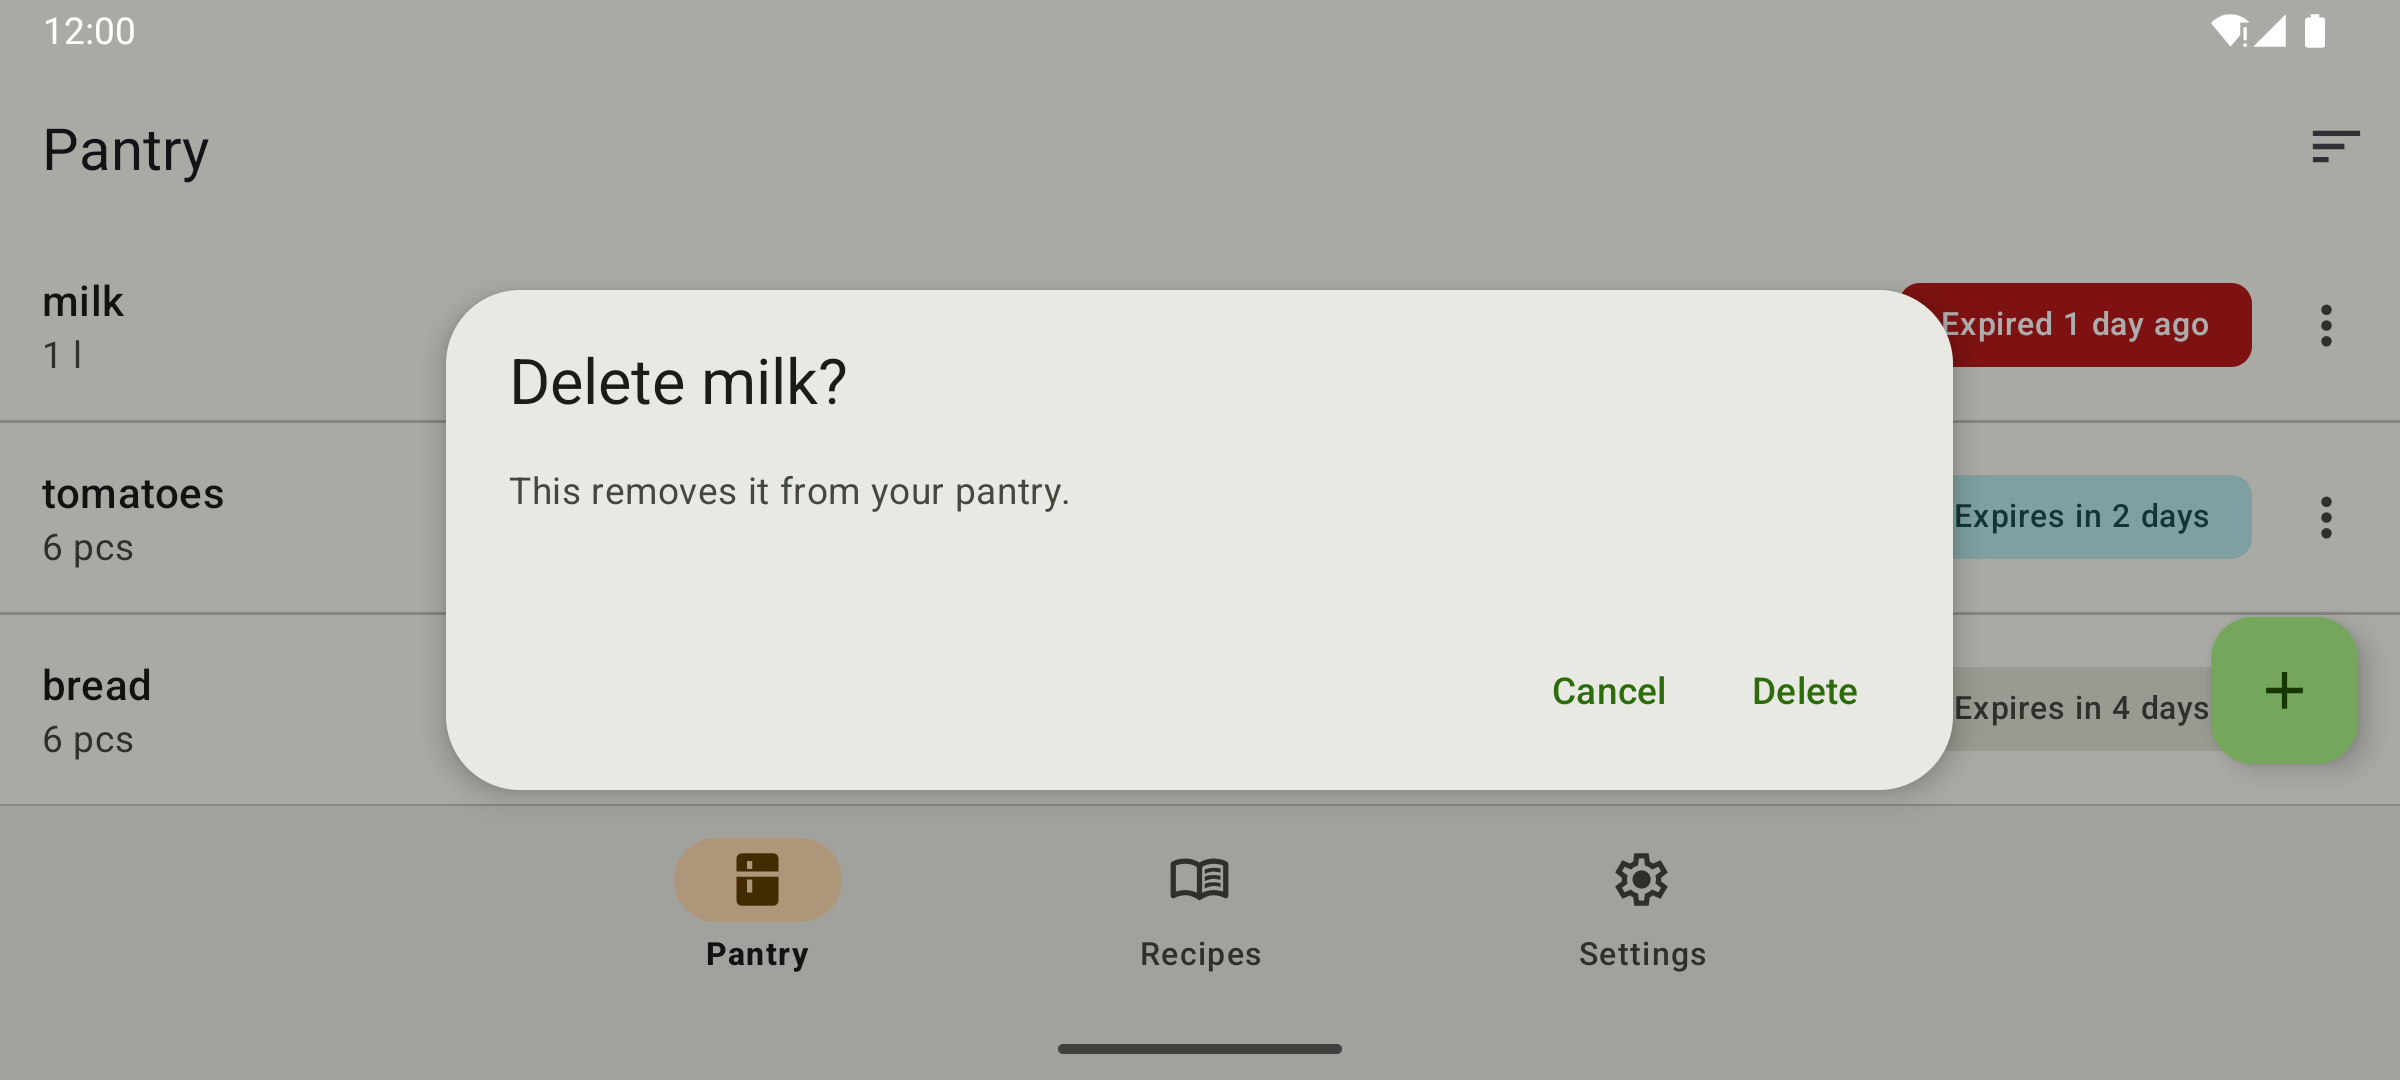
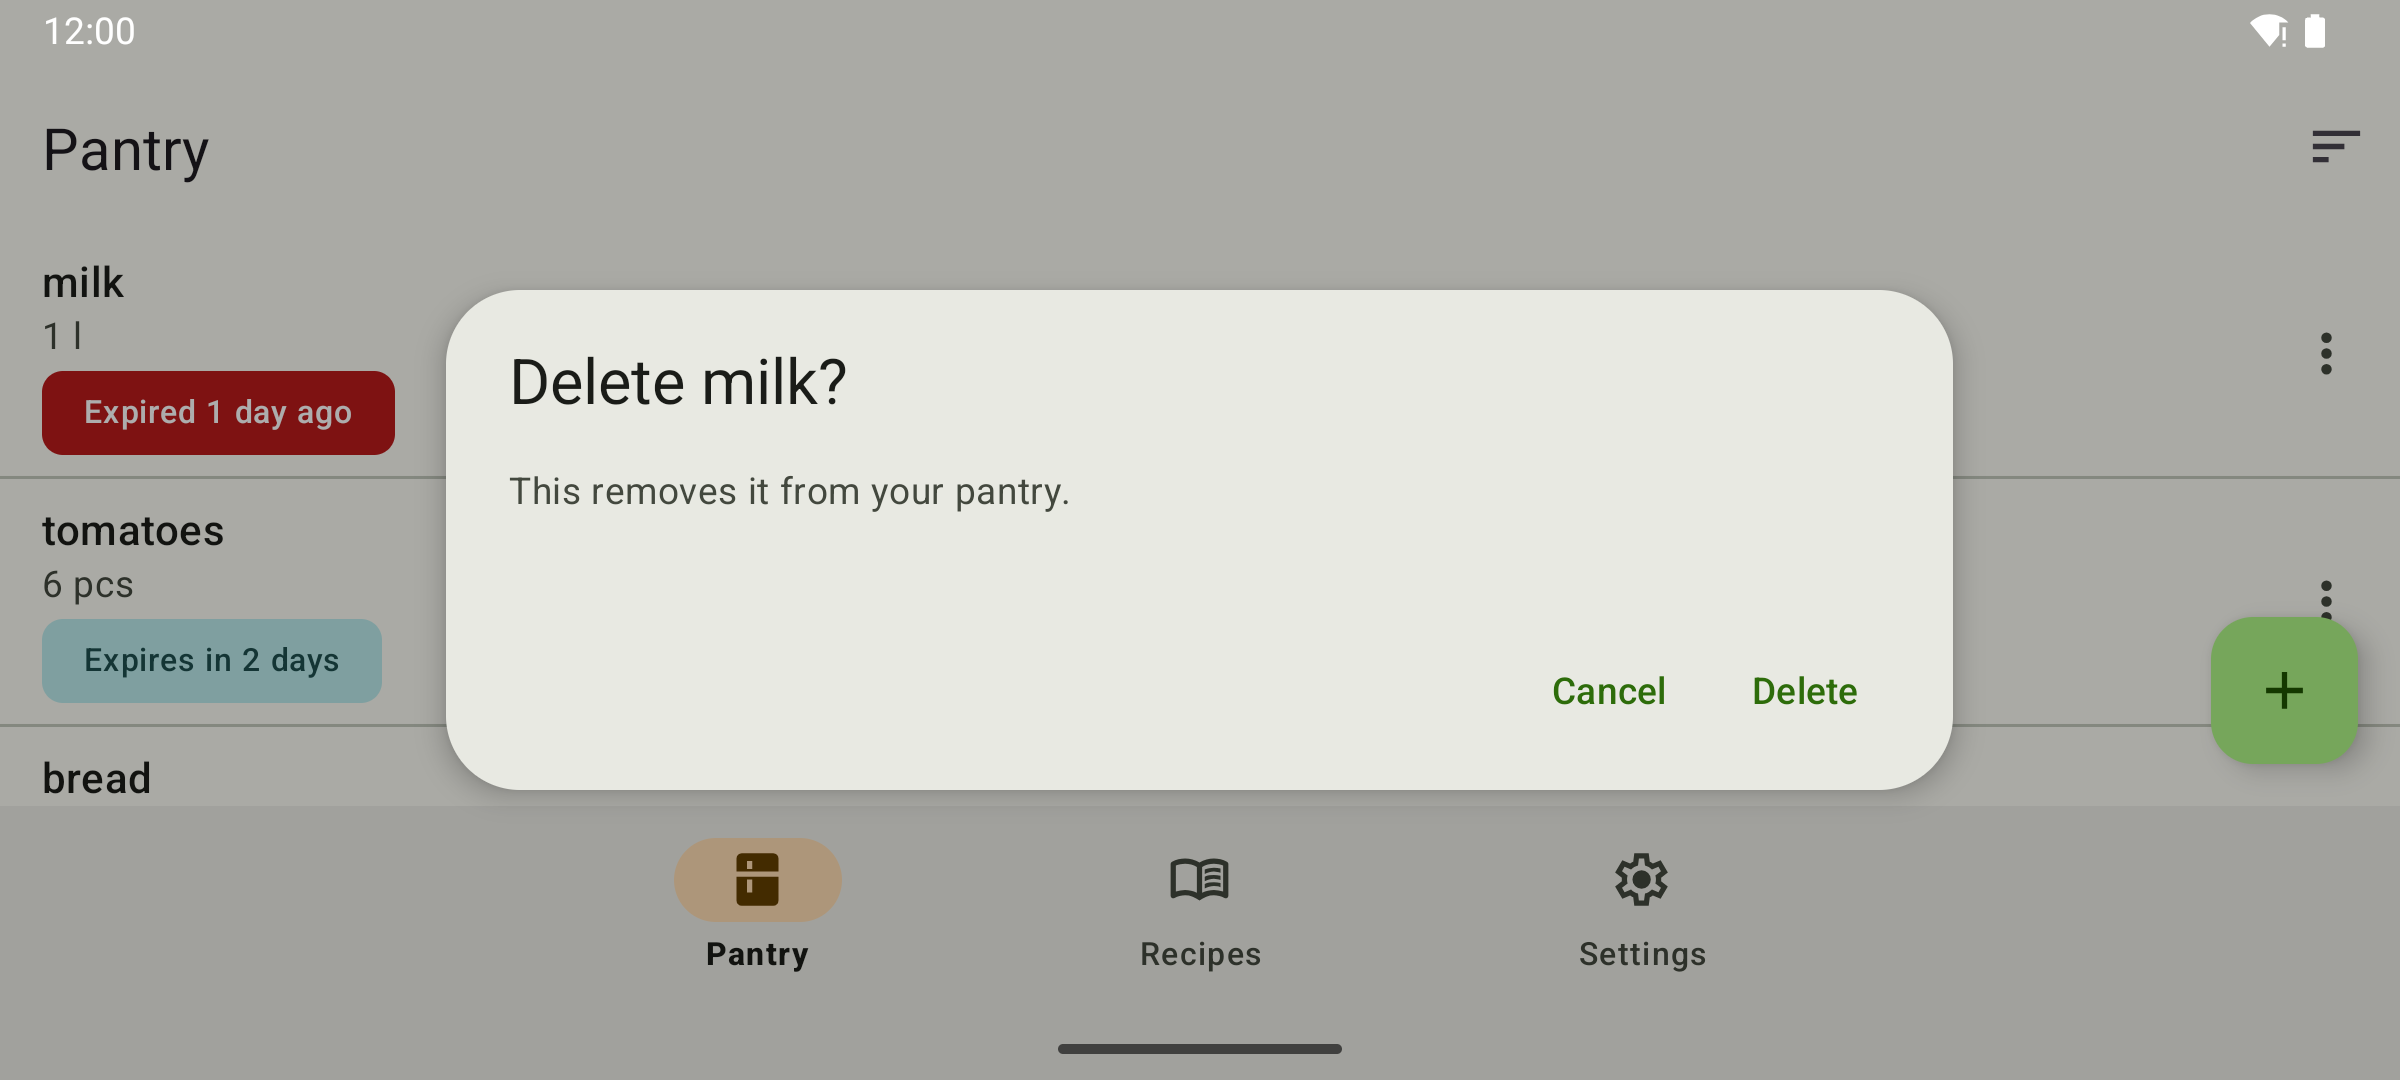
Issue 30: add the light, dark, font-scale and rotation screenshots of every screen and state, and UX_CHECKLIST.md ticking each check with its file

diff --git a/docs/REPORT/UX_CHECKLIST.md b/docs/REPORT/UX_CHECKLIST.md
@@ -1,0 +1,92 @@
+# UX checklist (Issue 30)
+
+One pass over every screen and state of the app with one checklist, before the report's screenshots
+are taken (Issue 33 chooses and captions its set from these). Each cell names the screenshot under
+[`screenshots/`](screenshots/) that shows the check, or the test that makes it. Taken on the API 35
+emulator (`spm_api35`, 1080 x 2400, demo mode) from the debug build, on 2026-10-04.
+
+## The checks
+
+| Check | How it was made |
+|---|---|
+| **Consistency** | `grep -rn 'android:textSize\|android:padding="[0-9]\|android:layout_margin="[0-9]\|#[0-9A-Fa-f]\{6\}' app/src/main/res/layout` prints nothing; `LayoutStyleConventionsTest` fails on a raw hex colour or a `textSize` in any layout. Every spacing is a `@dimen`, every text a `TextAppearance.Spm.*`, every colour a theme role. Toolbar titles come from resources (`Tab.titleRes()`, the two Activities' manifest labels and `title_edit_ingredient`); both Activities have the up arrow through `parentActivityName` and `onSupportNavigateUp`. Loading, empty and error share `view_state_message.xml`, filled by `ui/StateMessage`. |
+| **Dark** | Every screen and state screenshotted in the dark theme. No fixed `@color/white` or `@android:color/black` in a layout; badges, chips and cards take colour roles, so each pair stays legible. |
+| **Labels** | Lint's `ContentDescription` is an error (`app/build.gradle`), shown failing on a scratch `ImageView` and reverted. Every `ImageView`, `ImageButton` and FAB has a description from `strings.xml` or `importantForAccessibility="no"`; each pantry row has one spoken description ("tomato, 4 pieces, Expires in 3 days"). `AccessibilityChecksTest` runs the Accessibility Test Framework on every screen below. |
+| **Targets** | `@dimen/touch_target_min` (48 dp) on every `ImageButton` (`LayoutStyleConventionsTest`) and on the state layout's button; the framework's `TouchTargetSizeCheck` runs in `AccessibilityChecksTest`. |
+| **Font 2.0** | `adb shell settings put system font_scale 2.0`, every screen opened; 1.3 checked on the pantry and the form too. Reset to 1.0 afterwards. |
+| **Rotation** | Rotated with state on screen; the Activity is re-created (`adb logcat -s Lifecycle`: `onDestroy (configuration change)`, `onCreate (restored)`). |
+| **TalkBack** | The pantry list and the form, see *TalkBack* below. |
+| **No string in Java** | `grep -rn 'setText("\|setTitle("\|setError("\|makeText(.*"' app/src/main/java` prints nothing; `HardcodedText` and `SetTextI18n` are Lint errors. |
+
+## Every screen and state
+
+| Screen or state | Consistency | Dark | Labels | Targets | Font 2.0 | Rotation | TalkBack | No string in Java |
+|---|---|---|---|---|---|---|---|---|
+| Pantry list | ✅ `33_ux_pantry_list_light.png` | ✅ `33_ux_pantry_list_dark.png` | ✅ `AccessibilityChecksTest.thePantryList_theSortMenu_andTheDeleteDialog` | ✅ same test; overflow 48 dp | ✅ `33_ux_pantry_list_fontscale2.png` | ✅ `33_ux_pantry_list_land.png` | ✅ `33_ux_talkback_pantry.png` | ✅ |
+| Pantry empty | ✅ `33_ux_pantry_empty_light.png` | ✅ `33_ux_pantry_empty_dark.png` | ✅ `AccessibilityChecksTest.theEmptyPantry`; illustration decorative | ✅ button 48 dp | ✅ `33_ux_pantry_empty_fontscale2.png` | ✅ `33_ux_pantry_empty_land.png` | — | ✅ |
+| Delete dialog | ✅ `33_ux_delete_dialog_light.png` | ✅ `33_ux_delete_dialog_dark.png` | ✅ `AccessibilityChecksTest.thePantryList_theSortMenu_andTheDeleteDialog` | ✅ Material dialog buttons | ✅ `33_ux_delete_dialog_fontscale2.png` | ✅ `33_ux_delete_dialog_rotated_land.png` (a `DialogFragment` now: still open) | — | ✅ |
+| Undo Snackbar | ✅ `33_ux_undo_snackbar_light.png` | ✅ `33_ux_undo_snackbar_dark.png` | ✅ action labelled "Undo" | ✅ Material action | ✅ `33_ux_undo_snackbar_fontscale2.png` | ⚠ finding 2 below | — | ✅ |
+| Add form | ✅ `33_ux_add_form_light.png` | ✅ `33_ux_add_form_dark.png` | ✅ `AccessibilityChecksTest.theAddForm_withEveryErrorShowing`; every field labelled by its hint | ✅ end icons 48 dp | ✅ `33_ux_add_form_fontscale2.png` | ✅ `33_ux_add_form_rotated_land.png` (name, quantity, unit and date kept) | ✅ `33_ux_talkback_form.png` (the same form, in edit mode) | ✅ |
+| Add form, errors | ✅ `33_ux_add_form_errors_light.png` | ✅ `33_ux_add_form_errors_dark.png` (errors kept through the theme's re-creation) | ✅ same test; error icons labelled "Error" | ✅ | ✅ `33_ux_add_form_errors_fontscale2.png`, `33_ux_add_form_errors_fontscale13.png` | ✅ errors kept, as the dark shot shows | ✅ errors in the tree, see *TalkBack* | ✅ |
+| Edit form | ✅ `33_ux_edit_form_light.png` | ✅ `33_ux_edit_form_dark.png` | ✅ "Clear expiry date", "Choose expiry date" | ✅ | ✅ `33_ux_edit_form_fontscale2.png` | ✅ same layout and state as the add form | ✅ `33_ux_talkback_form.png` | ✅ |
+| Recipes, suggestions and Almost there | ✅ `33_ux_recipes_light.png` | ✅ `33_ux_recipes_dark.png` | ✅ `AccessibilityChecksTest.theRecipesTab_withAlmostThere_thenTheSettingsTab` | ✅ whole rows and cards | ✅ `33_ux_recipes_fontscale2.png` | ✅ `33_ux_recipes_scrolled_land.png`, `33_ux_recipes_scrolled_land_recreated.png` (scrolled to Garlic bread, still there after re-creation) | — | ✅ |
+| Recipes, zero match | ✅ `33_ux_recipes_no_match_light.png` | ✅ `33_ux_recipes_no_match_dark.png` | ✅ live region on the message | ✅ | ✅ `33_ux_recipes_no_match_fontscale2.png` | ✅ state in the ViewModel | — | ✅ |
+| Recipe detail | ✅ `33_ux_recipe_detail_light.png` | ✅ `33_ux_recipe_detail_dark.png` | ✅ `AccessibilityChecksTest.theRecipeDetailScreen`; marks "You have this", "You need this" | ✅ | ✅ `33_ux_recipe_detail_fontscale2.png` | ✅ `33_ux_recipe_detail_land.png` | — | ✅ |
+| Settings | ✅ `33_ux_settings_light.png` | ✅ `33_ux_settings_dark.png` | ✅ `AccessibilityChecksTest.theRecipesTab_withAlmostThere_thenTheSettingsTab` | ✅ preference rows | ✅ `33_ux_settings_fontscale2.png` | ✅ `33_ux_settings_land.png`, `33_ux_settings_scroll_recreated.png` | — | ✅ |
+
+TalkBack is required for the pantry list and the form only; "—" means not part of the walk. The
+loading state (the shared layout's progress) appears only when a match or the recipe takes longer
+than 300 ms, which it never did on the emulator, so it has no screenshot; `StateMessage.showLoading`
+gives the indicator its description, "Matching recipes to your pantry" or "Loading the recipe".
+
+## TalkBack
+
+TalkBack 15 on the API 35 emulator, enabled with
+`adb shell settings put secure enabled_accessibility_services com.google.android.marvin.talkback/com.google.android.marvin.talkback.TalkBackService`,
+with its developer option *Display speech output* on, which captions each announcement.
+
+- **Spoken, captioned:** on the Pantry tab, "Sort the pantry. Button. Sort by"
+  (`33_ux_talkback_pantry.png`); on the edit form, "Navigate up. Button" (`33_ux_talkback_form.png`).
+- **What TalkBack reads, from the accessibility tree** (`uiautomator dump`, text or description of
+  each focusable node). Pantry rows: "milk, 1 litre, Expired 1 day ago", "tomatoes, 6 pieces,
+  Expires in 2 days", then "More options for milk". The form: Name "Basil", "Characters entered 5 of
+  60", Quantity "2", Unit "pcs", "Show dropdown menu", Expiry date "Oct 10, 2026", "Choose expiry
+  date", "Clear expiry date", the helper "Leave it empty if the ingredient does not expire.", and on
+  Save with the fields empty: "Name is required.", "Enter a quantity.", "Choose a unit.", each
+  beside an icon labelled "Error".
+- **Not done:** a full swipe-by-swipe walk with TalkBack speaking every row and field. Injected
+  `adb shell input swipe` gestures only sometimes register as TalkBack gestures on this emulator,
+  and `uiautomator events`, the other way to record announcements, suppresses TalkBack while it
+  listens. The walk is done by hand before the video (Issue 36).
+
+## Findings
+
+1. **"tomatoes" broke mid-word at font scale 2.0.** The badge beside the name left it too narrow.
+   Fixed: the badge is under the amount (`item_pantry.xml`), shown in `33_ux_pantry_list_fontscale2.png`.
+2. **The undo Snackbar does not survive a rotation.** A Snackbar belongs to the window it was shown
+   in, and the delete has already happened, so after a rotation the Undo is gone and the item has to
+   be added again. Left as it is: an undo that outlives a rotation would need the deleted item held
+   in the ViewModel and the Snackbar shown again, for a few seconds of a rare case.
+3. **The delete confirmation closed on rotation.** Fixed: it is a `DialogFragment`
+   (`DeleteIngredientDialog`), still open after a rotation and two theme changes.
+4. **Accessibility Scanner was not run.** The emulator's Play Store needs a signed-in Google account
+   to install it. `AccessibilityChecksTest` runs the Accessibility Test Framework, the engine the
+   Scanner app is built on, through Espresso on every screen above, and reports **no finding**. Made
+   to fail on purpose, it does: a FAB with its description removed fails two tests with
+   `SpeakableTextPresentCheck`. It did **not** fail on a 24 dp overflow button inside a clickable
+   row, which the framework accepts because the row is a larger target; the 48 dp rule for every
+   `ImageButton` is therefore held by `LayoutStyleConventionsTest` instead.
+5. **The add form scrolls in landscape rather than fitting.** All four fields and Save stay
+   reachable in the `NestedScrollView` (`33_ux_add_form_rotated_land.png`), so there is no
+   `layout-land` copy of the form to keep in step.
+
+## What the pass changed
+
+- `view_state_message.xml` and `ui/StateMessage`: one layout for loading, empty and error, on the
+  Pantry tab, the Recipes tab and the detail screen (which shows its progress there now).
+- `ContentDescription` is a Lint error; every pantry row has one spoken description, with units in
+  words through `util/SpokenQuantity`.
+- The delete confirmation is a `DialogFragment`.
+- The pantry row puts the badge under the amount.
+- `AccessibilityChecksTest` (device) and the `ImageButton` rule in `LayoutStyleConventionsTest` (JVM).
+- No colour, size, spacing or type style changed: the palette and type scale from Issue 2 stay.

diff --git a/docs/REPORT/screenshots/INDEX.md b/docs/REPORT/screenshots/INDEX.md
@@ -58,3 +58,49 @@ the final set after the UI pass, so earlier rows are working copies.
 | 30 | 30_alerts_denied.png | After "Don't allow": the switch is back off, its summary says "Off: notifications are not allowed for this app.", the daily check is cancelled, and *Notification settings* opens the app's page in system settings | #29 |
 | 31 | 31_permission_rationale.png | Turning the alert on again after a refusal: the app's own explanation first, "Allow notifications?", with Continue (to the system prompt) and Not now | #29 |
 | 32 | 32_expiry_notification.png | "Send a test alert now" with tomato expiring tomorrow and milk in three days: one notification on the `expiry_alerts` channel, "2 items expiring soon", "tomato (tomorrow), milk (in 3 days)", worded by `ExpiryMessageBuilder`; tapping it opens the Pantry tab | #29 |
+| 33 | 33_ux_add_form_dark.png | The empty add form, dark theme | #30 |
+| 33 | 33_ux_add_form_errors_dark.png | Save on the empty form: three errors at once, dark theme | #30 |
+| 33 | 33_ux_add_form_errors_fontscale13.png | Save on the empty form: three errors at once, at font scale 1.3 | #30 |
+| 33 | 33_ux_add_form_errors_fontscale2.png | Save on the empty form: three errors at once, at font scale 2.0 | #30 |
+| 33 | 33_ux_add_form_errors_light.png | Save on the empty form: three errors at once | #30 |
+| 33 | 33_ux_add_form_fontscale2.png | The empty add form, at font scale 2.0 | #30 |
+| 33 | 33_ux_add_form_light.png | The empty add form | #30 |
+| 33 | 33_ux_add_form_rotated_land.png | The add form half filled (Basil, 2, pcs, Oct 10) after a rotation to landscape: every value kept, the form scrolls | #30 |
+| 33 | 33_ux_delete_dialog_dark.png | The delete confirmation, now a DialogFragment, dark theme | #30 |
+| 33 | 33_ux_delete_dialog_fontscale2.png | The delete confirmation, now a DialogFragment, at font scale 2.0 | #30 |
+| 33 | 33_ux_delete_dialog_light.png | The delete confirmation, now a DialogFragment | #30 |
+| 33 | 33_ux_delete_dialog_rotated_land.png | The delete confirmation still open after a rotation | #30 |
+| 33 | 33_ux_edit_form_dark.png | The edit form, prefilled, dark theme | #30 |
+| 33 | 33_ux_edit_form_fontscale2.png | The edit form, prefilled, at font scale 2.0 | #30 |
+| 33 | 33_ux_edit_form_light.png | The edit form, prefilled | #30 |
+| 33 | 33_ux_pantry_empty_dark.png | The empty pantry in the shared state layout: illustration, headline and the Add ingredient button, dark theme | #30 |
+| 33 | 33_ux_pantry_empty_fontscale2.png | The empty pantry in the shared state layout: illustration, headline and the Add ingredient button, at font scale 2.0 | #30 |
+| 33 | 33_ux_pantry_empty_land.png | The empty pantry in landscape | #30 |
+| 33 | 33_ux_pantry_empty_light.png | The empty pantry in the shared state layout: illustration, headline and the Add ingredient button | #30 |
+| 33 | 33_ux_pantry_list_dark.png | The Pantry tab with ten items: the badge under each amount since this pass, "Expired 1 day ago" on the error colours, dark theme | #30 |
+| 33 | 33_ux_pantry_list_fontscale13.png | The Pantry tab with ten items: the badge under each amount since this pass, "Expired 1 day ago" on the error colours, at font scale 1.3 | #30 |
+| 33 | 33_ux_pantry_list_fontscale2.png | The Pantry tab with ten items: the badge under each amount since this pass, "Expired 1 day ago" on the error colours, at font scale 2.0 | #30 |
+| 33 | 33_ux_pantry_list_land.png | The Pantry tab in landscape | #30 |
+| 33 | 33_ux_pantry_list_light.png | The Pantry tab with ten items: the badge under each amount since this pass, "Expired 1 day ago" on the error colours | #30 |
+| 33 | 33_ux_recipe_detail_dark.png | Tomato pasta in full, every mark from the matcher, dark theme | #30 |
+| 33 | 33_ux_recipe_detail_fontscale2.png | Tomato pasta in full, every mark from the matcher, at font scale 2.0 | #30 |
+| 33 | 33_ux_recipe_detail_land.png | The detail screen in landscape | #30 |
+| 33 | 33_ux_recipe_detail_light.png | Tomato pasta in full, every mark from the matcher | #30 |
+| 33 | 33_ux_recipes_dark.png | One suggestion and three almost-there cards, dark theme | #30 |
+| 33 | 33_ux_recipes_fontscale2.png | One suggestion and three almost-there cards, at font scale 2.0 | #30 |
+| 33 | 33_ux_recipes_light.png | One suggestion and three almost-there cards | #30 |
+| 33 | 33_ux_recipes_no_match_dark.png | The zero-match sentence over the almost-there section, dark theme | #30 |
+| 33 | 33_ux_recipes_no_match_fontscale2.png | The zero-match sentence over the almost-there section, at font scale 2.0 | #30 |
+| 33 | 33_ux_recipes_no_match_light.png | The zero-match sentence over the almost-there section | #30 |
+| 33 | 33_ux_recipes_scrolled_land.png | The Recipes tab in landscape, scrolled to the almost-there cards | #30 |
+| 33 | 33_ux_recipes_scrolled_land_recreated.png | The same tab after the Activity was re-created (theme change): still scrolled to Garlic bread | #30 |
+| 33 | 33_ux_settings_dark.png | The Settings tab, dark theme | #30 |
+| 33 | 33_ux_settings_fontscale2.png | The Settings tab, at font scale 2.0 | #30 |
+| 33 | 33_ux_settings_land.png | The Settings tab in landscape | #30 |
+| 33 | 33_ux_settings_light.png | The Settings tab | #30 |
+| 33 | 33_ux_settings_scroll_recreated.png | Settings scrolled, before (light) and after (dark) the Activity was re-created: the same position | #30 |
+| 33 | 33_ux_talkback_form.png | TalkBack on the edit form: "Navigate up. Button" | #30 |
+| 33 | 33_ux_talkback_pantry.png | TalkBack on, with its speech output captioned: "Sort the pantry. Button. Sort by" | #30 |
+| 33 | 33_ux_undo_snackbar_dark.png | "Deleted milk" with Undo, above the FAB, dark theme | #30 |
+| 33 | 33_ux_undo_snackbar_fontscale2.png | "Deleted milk" with Undo, above the FAB, at font scale 2.0 | #30 |
+| 33 | 33_ux_undo_snackbar_light.png | "Deleted milk" with Undo, above the FAB | #30 |
